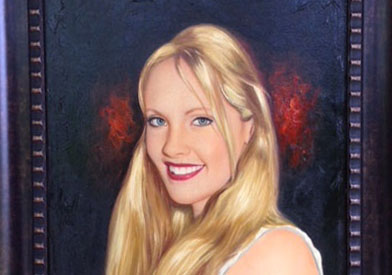
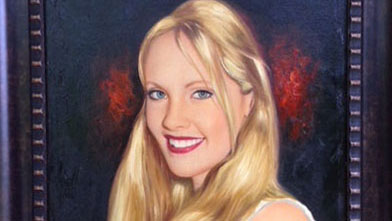
Image ratio fix

diff --git a/index.html b/index.html
@@ -248,7 +248,7 @@
                 <!-- Fancybox - Gallery Enabled - Title - Full Image --> 
                 <a class="hover-wrap fancybox" data-fancybox-group="gallery" title="The Mountains" href="img/work/full/3.JPG"> <span class="overlay-img"></span> <span class="overlay-img-thumb font-icon-plus"></span> </a> 
                 <!-- Thumb Image and Description --> 
-                <img src="img/work/full/3.JPG" alt="Lorem ipsum dolor sit amet, consectetur adipiscing elit. Phasellus quis elementum odio. Curabitur pellentesque, dolor vel pharetra mollis."> </li>
+                <img src="img/work/full/3_thumb.JPG" alt="Lorem ipsum dolor sit amet, consectetur adipiscing elit. Phasellus quis elementum odio. Curabitur pellentesque, dolor vel pharetra mollis."> </li>
               <!-- End Item Project --> 
 				
 				<!-- Item Project and Filter Name -->
@@ -264,7 +264,7 @@
                 <!-- Fancybox - Gallery Enabled - Title - Full Image --> 
                 <a class="hover-wrap fancybox" data-fancybox-group="gallery" title="The Mountains" href="img/work/full/5.JPG"> <span class="overlay-img"></span> <span class="overlay-img-thumb font-icon-plus"></span> </a> 
                 <!-- Thumb Image and Description --> 
-                <img src="img/work/full/5.JPG" alt="Lorem ipsum dolor sit amet, consectetur adipiscing elit. Phasellus quis elementum odio. Curabitur pellentesque, dolor vel pharetra mollis."> </li>
+                <img src="img/work/full/5_thumb.JPG" alt="Lorem ipsum dolor sit amet, consectetur adipiscing elit. Phasellus quis elementum odio. Curabitur pellentesque, dolor vel pharetra mollis."> </li>
               <!-- End Item Project --> 
 				
 				<!-- Item Project and Filter Name -->
@@ -281,7 +281,7 @@
                 <!-- Fancybox - Gallery Enabled - Title - Full Image --> 
                 <a class="hover-wrap fancybox" data-fancybox-group="gallery" title="The Mountains" href="img/work/full/7.JPG"> <span class="overlay-img"></span> <span class="overlay-img-thumb font-icon-plus"></span> </a> 
                 <!-- Thumb Image and Description --> 
-                <img src="img/work/full/7.JPG" alt="Lorem ipsum dolor sit amet, consectetur adipiscing elit. Phasellus quis elementum odio. Curabitur pellentesque, dolor vel pharetra mollis."> </li>
+                <img src="img/work/full/7_thumb.JPG" alt="Lorem ipsum dolor sit amet, consectetur adipiscing elit. Phasellus quis elementum odio. Curabitur pellentesque, dolor vel pharetra mollis."> </li>
               <!-- End Item Project --> 
 				
 				<!-- Item Project and Filter Name -->
@@ -297,7 +297,7 @@
                 <!-- Fancybox - Gallery Enabled - Title - Full Image --> 
                 <a class="hover-wrap fancybox" data-fancybox-group="gallery" title="The Mountains" href="img/work/full/9.JPG"> <span class="overlay-img"></span> <span class="overlay-img-thumb font-icon-plus"></span> </a> 
                 <!-- Thumb Image and Description --> 
-                <img src="img/work/full/9.JPG" alt="Lorem ipsum dolor sit amet, consectetur adipiscing elit. Phasellus quis elementum odio. Curabitur pellentesque, dolor vel pharetra mollis."> </li>
+                <img src="img/work/full/9_thumb.JPG" alt="Lorem ipsum dolor sit amet, consectetur adipiscing elit. Phasellus quis elementum odio. Curabitur pellentesque, dolor vel pharetra mollis."> </li>
               <!-- End Item Project --> 
 				
 				<!-- Item Project and Filter Name -->
@@ -305,7 +305,7 @@
                 <!-- Fancybox - Gallery Enabled - Title - Full Image --> 
                 <a class="hover-wrap fancybox" data-fancybox-group="gallery" title="The Mountains" href="img/work/full/10.JPG"> <span class="overlay-img"></span> <span class="overlay-img-thumb font-icon-plus"></span> </a> 
                 <!-- Thumb Image and Description --> 
-                <img src="img/work/full/10.JPG" alt="Lorem ipsum dolor sit amet, consectetur adipiscing elit. Phasellus quis elementum odio. Curabitur pellentesque, dolor vel pharetra mollis."> </li>
+                <img src="img/work/full/10_thumb.JPG" alt="Lorem ipsum dolor sit amet, consectetur adipiscing elit. Phasellus quis elementum odio. Curabitur pellentesque, dolor vel pharetra mollis."> </li>
               <!-- End Item Project --> 
 				
 				<!-- Item Project and Filter Name -->
@@ -313,7 +313,7 @@
                 <!-- Fancybox - Gallery Enabled - Title - Full Image --> 
                 <a class="hover-wrap fancybox" data-fancybox-group="gallery" title="The Mountains" href="img/work/full/11.JPG"> <span class="overlay-img"></span> <span class="overlay-img-thumb font-icon-plus"></span> </a> 
                 <!-- Thumb Image and Description --> 
-                <img src="img/work/full/11.JPG" alt="Lorem ipsum dolor sit amet, consectetur adipiscing elit. Phasellus quis elementum odio. Curabitur pellentesque, dolor vel pharetra mollis."> </li>
+                <img src="img/work/full/11_thumb.JPG" alt="Lorem ipsum dolor sit amet, consectetur adipiscing elit. Phasellus quis elementum odio. Curabitur pellentesque, dolor vel pharetra mollis."> </li>
               <!-- End Item Project --> 
 				
 				<!-- Item Project and Filter Name -->
@@ -321,7 +321,7 @@
                 <!-- Fancybox - Gallery Enabled - Title - Full Image --> 
                 <a class="hover-wrap fancybox" data-fancybox-group="gallery" title="The Mountains" href="img/work/full/12.JPG"> <span class="overlay-img"></span> <span class="overlay-img-thumb font-icon-plus"></span> </a> 
                 <!-- Thumb Image and Description --> 
-                <img src="img/work/full/12.JPG" alt="Lorem ipsum dolor sit amet, consectetur adipiscing elit. Phasellus quis elementum odio. Curabitur pellentesque, dolor vel pharetra mollis."> </li>
+                <img src="img/work/full/12_thumb.JPG" alt="Lorem ipsum dolor sit amet, consectetur adipiscing elit. Phasellus quis elementum odio. Curabitur pellentesque, dolor vel pharetra mollis."> </li>
               <!-- End Item Project --> 
 				
 				
@@ -330,7 +330,7 @@
                 <!-- Fancybox - Gallery Enabled - Title - Full Image --> 
                 <a class="hover-wrap fancybox" data-fancybox-group="gallery" title="The Mountains" href="img/work/full/13.JPG"> <span class="overlay-img"></span> <span class="overlay-img-thumb font-icon-plus"></span> </a> 
                 <!-- Thumb Image and Description --> 
-                <img src="img/work/full/13.JPG" alt="Lorem ipsum dolor sit amet, consectetur adipiscing elit. Phasellus quis elementum odio. Curabitur pellentesque, dolor vel pharetra mollis."> </li>
+                <img src="img/work/full/13_thumb.JPG" alt="Lorem ipsum dolor sit amet, consectetur adipiscing elit. Phasellus quis elementum odio. Curabitur pellentesque, dolor vel pharetra mollis."> </li>
               <!-- End Item Project --> 
 				
 				<!-- Item Project and Filter Name -->
@@ -362,7 +362,7 @@
                 <!-- Fancybox - Gallery Enabled - Title - Full Image --> 
                 <a class="hover-wrap fancybox" data-fancybox-group="gallery" title="The Mountains" href="img/work/full/17.JPG"> <span class="overlay-img"></span> <span class="overlay-img-thumb font-icon-plus"></span> </a> 
                 <!-- Thumb Image and Description --> 
-                <img src="img/work/full/17.JPG" alt="Lorem ipsum dolor sit amet, consectetur adipiscing elit. Phasellus quis elementum odio. Curabitur pellentesque, dolor vel pharetra mollis."> </li>
+                <img src="img/work/full/17_thumb.JPG" alt="Lorem ipsum dolor sit amet, consectetur adipiscing elit. Phasellus quis elementum odio. Curabitur pellentesque, dolor vel pharetra mollis."> </li>
               <!-- End Item Project --> 
 				
 				<!-- Item Project and Filter Name -->
@@ -370,7 +370,7 @@
                 <!-- Fancybox - Gallery Enabled - Title - Full Image --> 
                 <a class="hover-wrap fancybox" data-fancybox-group="gallery" title="The Mountains" href="img/work/full/18.JPG"> <span class="overlay-img"></span> <span class="overlay-img-thumb font-icon-plus"></span> </a> 
                 <!-- Thumb Image and Description --> 
-                <img src="img/work/full/18.JPG" alt="Lorem ipsum dolor sit amet, consectetur adipiscing elit. Phasellus quis elementum odio. Curabitur pellentesque, dolor vel pharetra mollis."> </li>
+                <img src="img/work/full/18_thumb.JPG" alt="Lorem ipsum dolor sit amet, consectetur adipiscing elit. Phasellus quis elementum odio. Curabitur pellentesque, dolor vel pharetra mollis."> </li>
               <!-- End Item Project --> 
 				
 				<!-- Item Project and Filter Name -->
@@ -378,7 +378,7 @@
                 <!-- Fancybox - Gallery Enabled - Title - Full Image --> 
                 <a class="hover-wrap fancybox" data-fancybox-group="gallery" title="The Mountains" href="img/work/full/19.JPG"> <span class="overlay-img"></span> <span class="overlay-img-thumb font-icon-plus"></span> </a> 
                 <!-- Thumb Image and Description --> 
-                <img src="img/work/full/19.JPG" alt="Lorem ipsum dolor sit amet, consectetur adipiscing elit. Phasellus quis elementum odio. Curabitur pellentesque, dolor vel pharetra mollis."> </li>
+                <img src="img/work/full/19_thumb.JPG" alt="Lorem ipsum dolor sit amet, consectetur adipiscing elit. Phasellus quis elementum odio. Curabitur pellentesque, dolor vel pharetra mollis."> </li>
               <!-- End Item Project --> 
 				
 				<!-- Item Project and Filter Name -->
@@ -402,7 +402,7 @@
                 <!-- Fancybox - Gallery Enabled - Title - Full Image --> 
                 <a class="hover-wrap fancybox" data-fancybox-group="gallery" title="The Mountains" href="img/work/full/22.JPG"> <span class="overlay-img"></span> <span class="overlay-img-thumb font-icon-plus"></span> </a> 
                 <!-- Thumb Image and Description --> 
-                <img src="img/work/full/22.JPG" alt="Lorem ipsum dolor sit amet, consectetur adipiscing elit. Phasellus quis elementum odio. Curabitur pellentesque, dolor vel pharetra mollis."> </li>
+                <img src="img/work/full/22_thumb.JPG" alt="Lorem ipsum dolor sit amet, consectetur adipiscing elit. Phasellus quis elementum odio. Curabitur pellentesque, dolor vel pharetra mollis."> </li>
               <!-- End Item Project --> 
 				
 				<!-- Item Project and Filter Name -->
@@ -418,7 +418,7 @@
                 <!-- Fancybox - Gallery Enabled - Title - Full Image --> 
                 <a class="hover-wrap fancybox" data-fancybox-group="gallery" title="The Mountains" href="img/work/full/24.JPG"> <span class="overlay-img"></span> <span class="overlay-img-thumb font-icon-plus"></span> </a> 
                 <!-- Thumb Image and Description --> 
-                <img src="img/work/full/24.JPG" alt="Lorem ipsum dolor sit amet, consectetur adipiscing elit. Phasellus quis elementum odio. Curabitur pellentesque, dolor vel pharetra mollis."> </li>
+                <img src="img/work/full/24_thumb.JPG" alt="Lorem ipsum dolor sit amet, consectetur adipiscing elit. Phasellus quis elementum odio. Curabitur pellentesque, dolor vel pharetra mollis."> </li>
               <!-- End Item Project --> 
 				
 				
@@ -452,7 +452,7 @@
                 <!-- Fancybox - Gallery Enabled - Title - Full Image --> 
                 <a class="hover-wrap fancybox" data-fancybox-group="gallery" title="The Mountains" href="img/work/full/28.JPG"> <span class="overlay-img"></span> <span class="overlay-img-thumb font-icon-plus"></span> </a> 
                 <!-- Thumb Image and Description --> 
-                <img src="img/work/full/28.JPG" alt="Lorem ipsum dolor sit amet, consectetur adipiscing elit. Phasellus quis elementum odio. Curabitur pellentesque, dolor vel pharetra mollis."> </li>
+                <img src="img/work/full/28_thumb.JPG" alt="Lorem ipsum dolor sit amet, consectetur adipiscing elit. Phasellus quis elementum odio. Curabitur pellentesque, dolor vel pharetra mollis."> </li>
               <!-- End Item Project --> 
 				
 				
